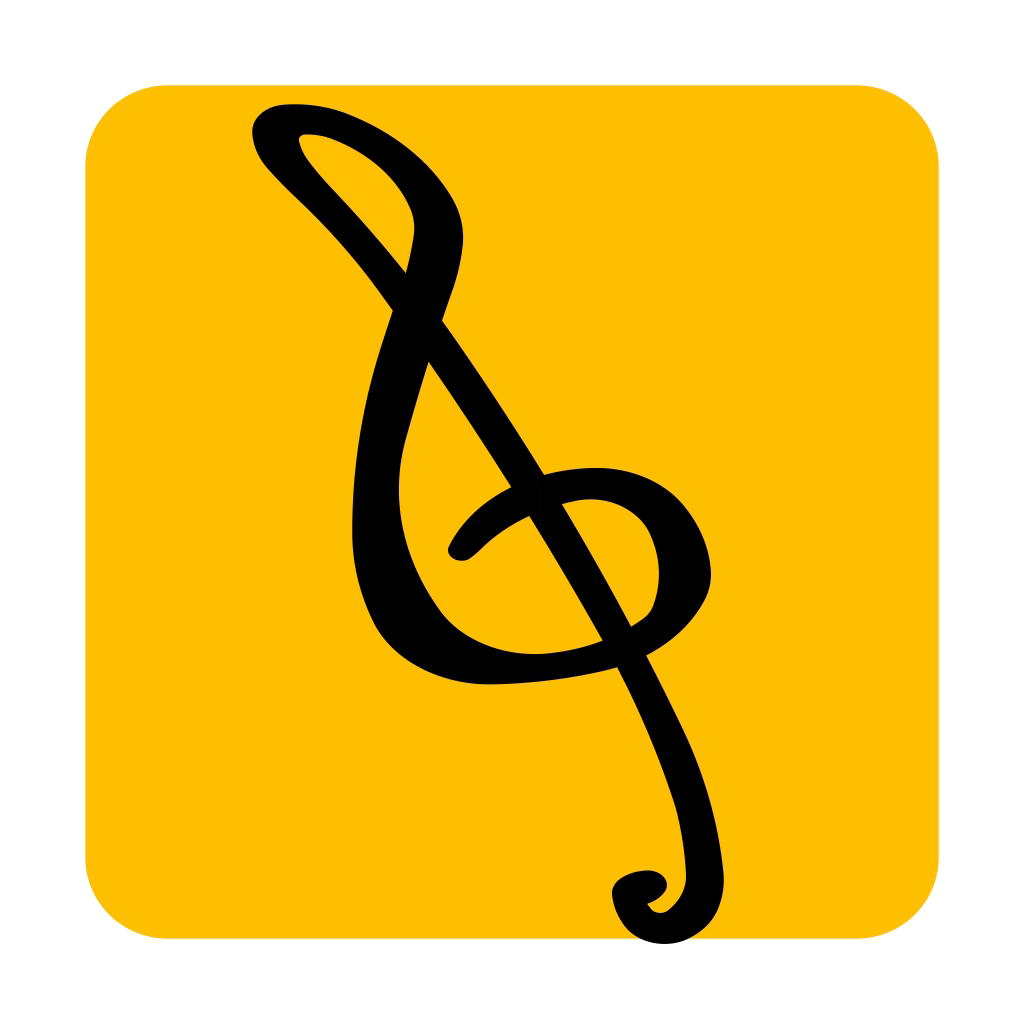
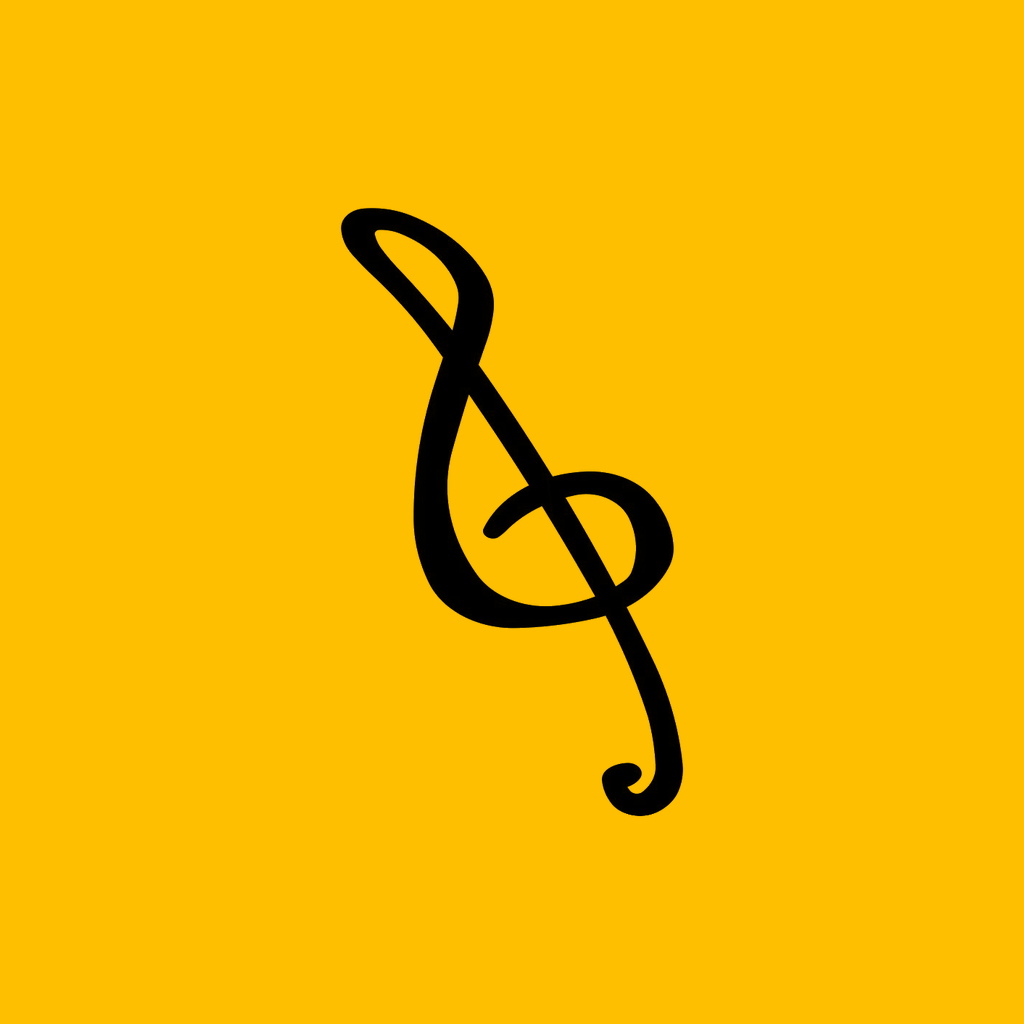
Improve Expo Android lifecycle and assets
Cancel poll coroutines and abort Rust streams on Activity destroy;
recreate
CoroutineScope with SupervisorJob to avoid leaking jobs. Stop
NowPlayingService
on task removal and return START_NOT_STICKY so swiping the app kills the
process. Suppress a dev-only Expo keep-awake activation error to avoid a
blocking red overlay. Replace icon/splash assets and remove obsolete
SVG.

diff --git a/expo/modules/rockbox-rpc/android/src/main/java/expo/modules/rockboxrpc/RockboxRpcModule.kt b/expo/modules/rockbox-rpc/android/src/main/java/expo/modules/rockboxrpc/RockboxRpcModule.kt
@@ -8,6 +8,7 @@ import expo.modules.kotlin.modules.ModuleDefinition
 import kotlinx.coroutines.CoroutineScope
 import kotlinx.coroutines.Dispatchers
 import kotlinx.coroutines.Job
+import kotlinx.coroutines.SupervisorJob
 import kotlinx.coroutines.cancel
 import kotlinx.coroutines.isActive
 import kotlinx.coroutines.launch
@@ -138,7 +139,7 @@ class RockboxRpcModule : Module() {
     @JvmStatic external fun rb_rescan_library(): Int
   }
 
-  private val scope = CoroutineScope(Dispatchers.IO)
+  private var scope = CoroutineScope(Dispatchers.IO + SupervisorJob())
   private val pollJobs = ConcurrentHashMap<Int, Job>()
   private val discoveryJobs = java.util.concurrent.ConcurrentHashMap.newKeySet<Int>()
 
@@ -519,6 +520,26 @@ class RockboxRpcModule : Module() {
       // If this was a discovery subscription, drop our multicast hold.
       if (discoveryJobs.remove(subId)) releaseMulticastLock()
       rb_unsubscribe(subId)
+    }
+
+    // Fires when the Activity is destroyed but the process stays alive (e.g.
+    // the user swipes away while audio plays via NowPlayingService foreground
+    // service). OnDestroy is NOT called in this scenario — only here.
+    // We cancel all poll coroutines and abort the Rust streaming tasks, then
+    // immediately recreate the scope so that when the user reopens the app and
+    // new subscriptions are started, scope.launch { } works correctly again.
+    OnActivityDestroys {
+      val ids = pollJobs.keys().toList()
+      pollJobs.values.forEach { it.cancel() }
+      pollJobs.clear()
+      ids.forEach { rb_unsubscribe(it) }
+      while (discoveryJobs.isNotEmpty()) {
+        discoveryJobs.iterator().next().let { discoveryJobs.remove(it) }
+        releaseMulticastLock()
+      }
+      scope.cancel()
+      // Fresh scope — ready for subscriptions when the Activity is recreated.
+      scope = CoroutineScope(Dispatchers.IO + SupervisorJob())
     }
 
     OnDestroy {

diff --git a/expo/app/_layout.tsx b/expo/app/_layout.tsx
@@ -1,5 +1,27 @@
 import "../global.css";
 import "@/lib/nativewind-setup";
+
+// expo's withDevTools calls useKeepAwake() in dev builds. On Android, the brief
+// window between Activity A destruction and Activity B initialization leaves
+// activityProvider.currentActivity === null, so ExpoKeepAwakeManager.activate()
+// throws CurrentActivityNotFoundException → unhandled rejection → red error
+// overlay that blocks all interaction until dismissed. Suppress it here: the
+// screen-keep-on re-activates harmlessly on the next render, and this code
+// path is dead in production builds.
+if (__DEV__) {
+  // eslint-disable-next-line @typescript-eslint/no-explicit-any
+  const EU = (globalThis as any).ErrorUtils as
+    | { getGlobalHandler(): (e: Error, f: boolean) => void; setGlobalHandler(h: (e: Error, f: boolean) => void): void }
+    | undefined;
+  if (EU) {
+    const _prevEH = EU.getGlobalHandler();
+    EU.setGlobalHandler((error: Error, isFatal: boolean) => {
+      if (error?.message?.includes("Unable to activate keep awake")) return;
+      _prevEH(error, isFatal);
+    });
+  }
+}
+
 import { ThemeProvider } from "@react-navigation/native";
 import { QueryClient, QueryClientProvider, focusManager } from "@tanstack/react-query";
 import { useFonts } from "expo-font";

diff --git a/expo/modules/rockbox-now-playing/android/src/main/java/expo/modules/rockboxnowplaying/NowPlayingService.kt b/expo/modules/rockbox-now-playing/android/src/main/java/expo/modules/rockboxnowplaying/NowPlayingService.kt
@@ -111,6 +111,15 @@ class NowPlayingService : Service() {
 
   override fun onBind(intent: Intent?): IBinder? = null
 
+  override fun onTaskRemoved(rootIntent: Intent?) {
+    // User swiped the app away — stop the foreground service so Android can
+    // kill the process cleanly. Every reopen is then a fresh process with
+    // clean gRPC state. Without this the service keeps the process alive,
+    // the old Rust streaming tasks compete with new ones on reopen, and
+    // the UI can't make gRPC calls until a second swipe kills the process.
+    stopSelf()
+  }
+
   override fun onCreate() {
     super.onCreate()
     ensureNotificationChannel()
@@ -168,7 +177,7 @@ class NowPlayingService : Service() {
         return START_NOT_STICKY
       }
     }
-    return START_STICKY
+    return START_NOT_STICKY
   }
 
   override fun onDestroy() {